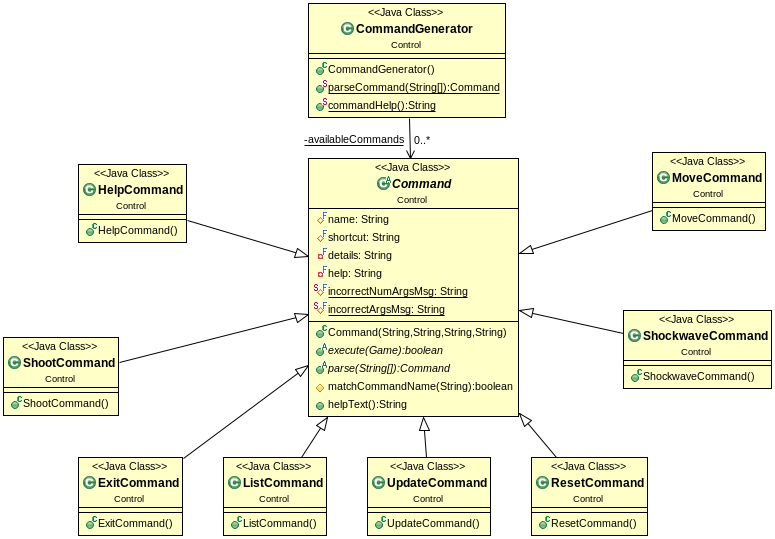
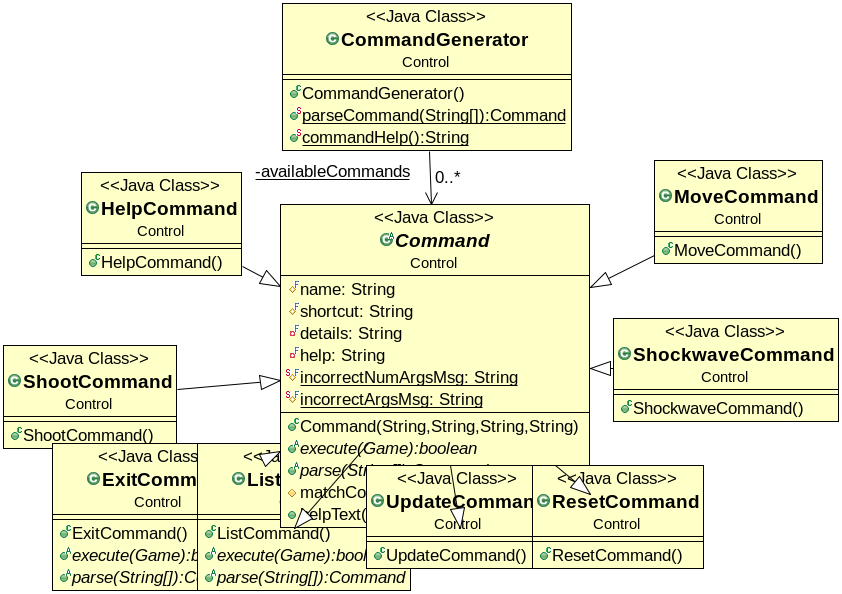
cambios

diff --git a/src/Control/CommandGenerator.java b/src/Control/CommandGenerator.java
@@ -12,6 +12,8 @@ public class CommandGenerator {
 		método es invocado por el método execute de la clase HelpCommand.
 	 */
 	
+	//NUESTRO ATRIBUTO QUE ALMACENARÁ UNA INSTANCIA DE CADA COMANDO
+	
 	private static Command[] availableCommands = {
 			new ListCommand(),
 			new HelpCommand(),
@@ -23,6 +25,40 @@ public class CommandGenerator {
 			new ShockwaveCommand()
 			};
 	
-	public static Command parseCommand(String[ ] commandWords)
-	public static String commandHelp()
+	
+	//ESTA FUNCIÓN RECIBE LOS PARAMETRO DEL CONTROLER
+		//-PASAR ESTOS PARAMETROS A cada una de las clase.
+	
+	public static Command parseCommand(String[ ] commandWords) {
+		
+		//CREAMOS UN REFERENCIA DEL OBJETO COMMAND Y LO INICIALIAZAMOS A NULL
+		
+		Command command = null;
+		for(Command availableCommands : availableCommands) {
+			
+			//es recorrer el array de objetos ( availableCommands y preguntar
+			// a cada metodo parse si el comandWords es suyo o no.
+			//nos retorna un null o el objeto que responde a la llamada
+				
+			command = availableCommands.parse(commandWords);
+			
+			if((command != null)) 
+				return command;
+		}
+		return command;
+	}
+	
+	
+	public static String commandHelp() {
+		
+		String helpText = null;
+		for(Command availableCommands : availableCommands) {
+			helpText  = availableCommands.helpText();
+			if((helpText != null)) {
+				break;
+			}
+		}				
+		return helpText;
+					
+	}
 }

diff --git a/src/Logic/Controller.java b/src/Logic/Controller.java
@@ -1,0 +1,62 @@
+package Logic;
+
+import java.util.Random;
+import java.util.Scanner;
+
+import Control.Command;
+import Control.CommandGenerator;
+
+
+public class Controller {
+
+	private Scanner scan;
+	private Game game;
+	private GamePrinter gamePrinter;
+	private Level level;
+	private Random ran;
+	private Command command;
+	
+	
+	private boolean finPartida;
+	private int cicloActual;
+	private boolean reset;
+	
+	public Controller (Game game, Scanner scanner, Level level){
+		this.game = game;
+		this.level = level;
+		this.ran = game.getRand();
+		this.scan = scanner;
+	}
+	
+	
+	public void run (){
+	
+		while (!game.isFinished()){
+			
+			//MUESTRA EL TABLERO DEL JUEGO
+			System.out.println(PROMPT);
+			
+			/*
+			 * -scan.nextLine() -> lee la linea completa
+			 * -toLowerCase()	-> Pone en minúsculas todas las letras
+			 * -trim()			-> elimina los espacio en blanco
+			 * -split()			-> Separa multiples espacios
+			 */
+			
+			String[] words = scan.nextLine().toLowerCase().trim().split ("\\s+");
+			
+			//llamamos al metodo static de CommandGenerator
+			
+			Command command = CommandGenerator.parseCommand(words);
+			
+			if (command != null) {
+			if (command.execute(game))
+				
+			System.out.println(game);
+		}
+		else {
+		System.out.format(unknownCommandMsg);
+		}
+	}
+		
+}

diff --git a/src/Control/Command.java b/src/Control/Command.java
@@ -50,6 +50,14 @@ public abstract class Command {
 	protected static final String incorrectNumArgsMsg = "Incorrect number of arguments";
 	protected static final String incorrectArgsMsg = "Incorrect argument format";
 	
+	
+	/*
+	 * Name 		->  comandos
+	 * shortcut 	-> Abreviatura
+	 * Details		->
+	 * help			
+	 */
+	
 	public Command(String name, String shortcut, String details, String help){
 		this.name = name;
 		this.shortcut = shortcut;
@@ -59,9 +67,20 @@ public abstract class Command {
 	
 	
 	//METODOS ABSTRACTOS
+		//se van a implementar en las clases derivadas o hijas
+	
 	public abstract boolean execute(Game game);
+	
 	public abstract Command parse(String[] commandWords);
 	
+	
+	/*equealsIgnoreCase		-> eJ this.shortcut ( se supone que m)
+	*						-> Ej this.name ( se supone que move)
+	*
+	*		->Ignora mayus y minusculas
+	*
+	*/
+
 	protected boolean matchCommandName(String name) {
 		return this.shortcut.equalsIgnoreCase(name) ||
 		this.name.equalsIgnoreCase(name);

diff --git a/src/Control/ListCommand.java b/src/Control/ListCommand.java
@@ -1,5 +1,31 @@
-package tp.p2;
+package Control;
+
+
+import Logic.Game;
 
 public class ListCommand extends Command {
 
+
+	public ListCommand() {
+		super("List", "l", "list", "Prints the list of available ships");
+	}
+
+	public boolean execute(Game game) {
+		
+		return true;
+	}
+	
+	public Command parse(String[] commandWords)
+	{
+		Command command = null;
+		
+		//cadenas de caracteres
+		if (matchCommandName(commandWords[0])) {
+			command = new ListCommand();
+		}
+		
+		return command;
+	}
+	
+	
 }

diff --git a/src/Logic/Main.java b/src/Logic/Main.java
@@ -7,7 +7,9 @@ public class Main {
 
 	public static void main(String[] args) {
 		
-		Level level = Level.stringTolevel(args[0].toUpperCase());
+		//llamamos al método static de Level
+		Level level = Level.parse(args[0].toUpperCase());
+		
 		long seed = (args.length >1) ? Long.parseLong(args[1]): System.currentTimeMillis();
 		Random rand = new Random(seed);
 		Game game = new Game(level,rand);

diff --git a/src/Logic/Level.java b/src/Logic/Level.java
@@ -5,6 +5,8 @@ public enum Level {
 	EASY(4, 2, 0.2, 3, 0.5, 1),
 	HARD(8, 4, 0.3, 2, 0.2, 2),
 	INSANE(12, 4, 0.5, 1, 0.1, 3);
+	
+	
 	private int numRegularAliens;
 	private int numDestroyerAliens;
 	private int numCyclesToMoveOneCell;
@@ -71,6 +73,8 @@ public enum Level {
 	
 	public double getTurnExplodeFrequency(){
 		return turnExplodeFrequency;
-	}	
+	}
+
+		
 
 }

diff --git a/src/Control/ExitCommand.java b/src/Control/ExitCommand.java
@@ -1,5 +1,12 @@
 package Control;
 
+import Logic.Game;
+
 public class ExitCommand extends Command{
 
+
+	public abstract boolean execute(Game game);
+	
+	public abstract Command parse(String[] commandWords);
+	
 }
